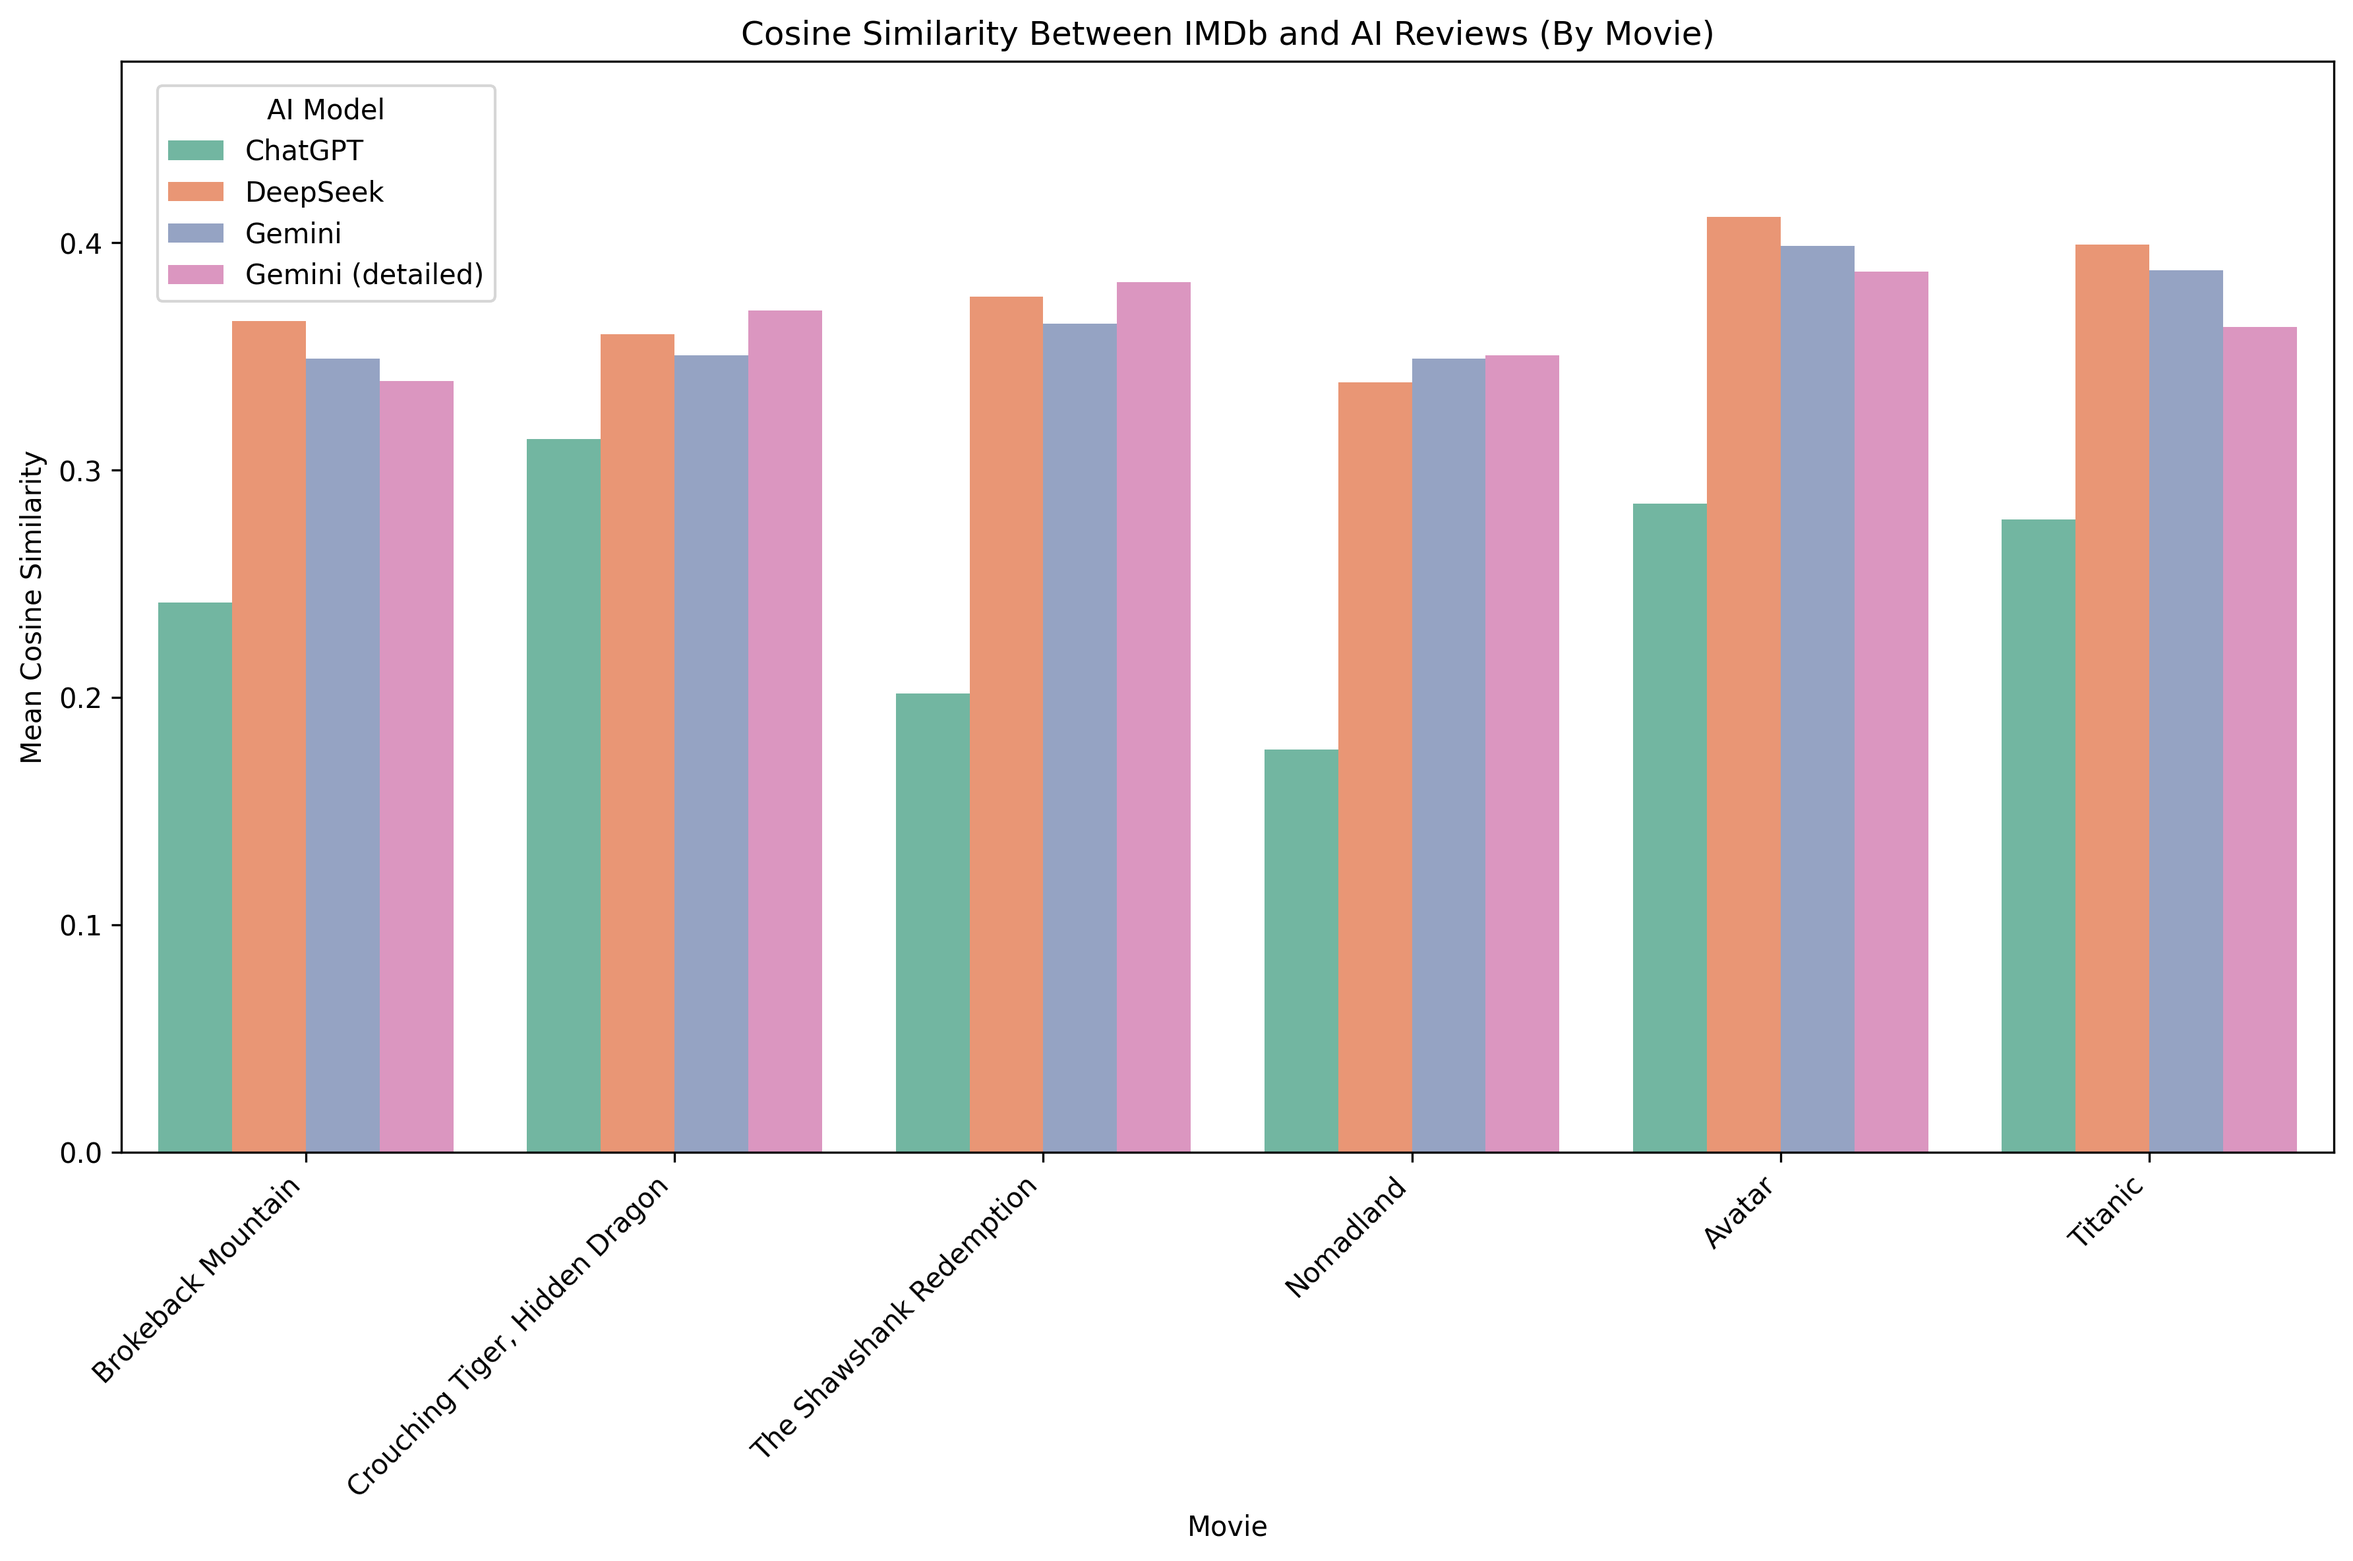
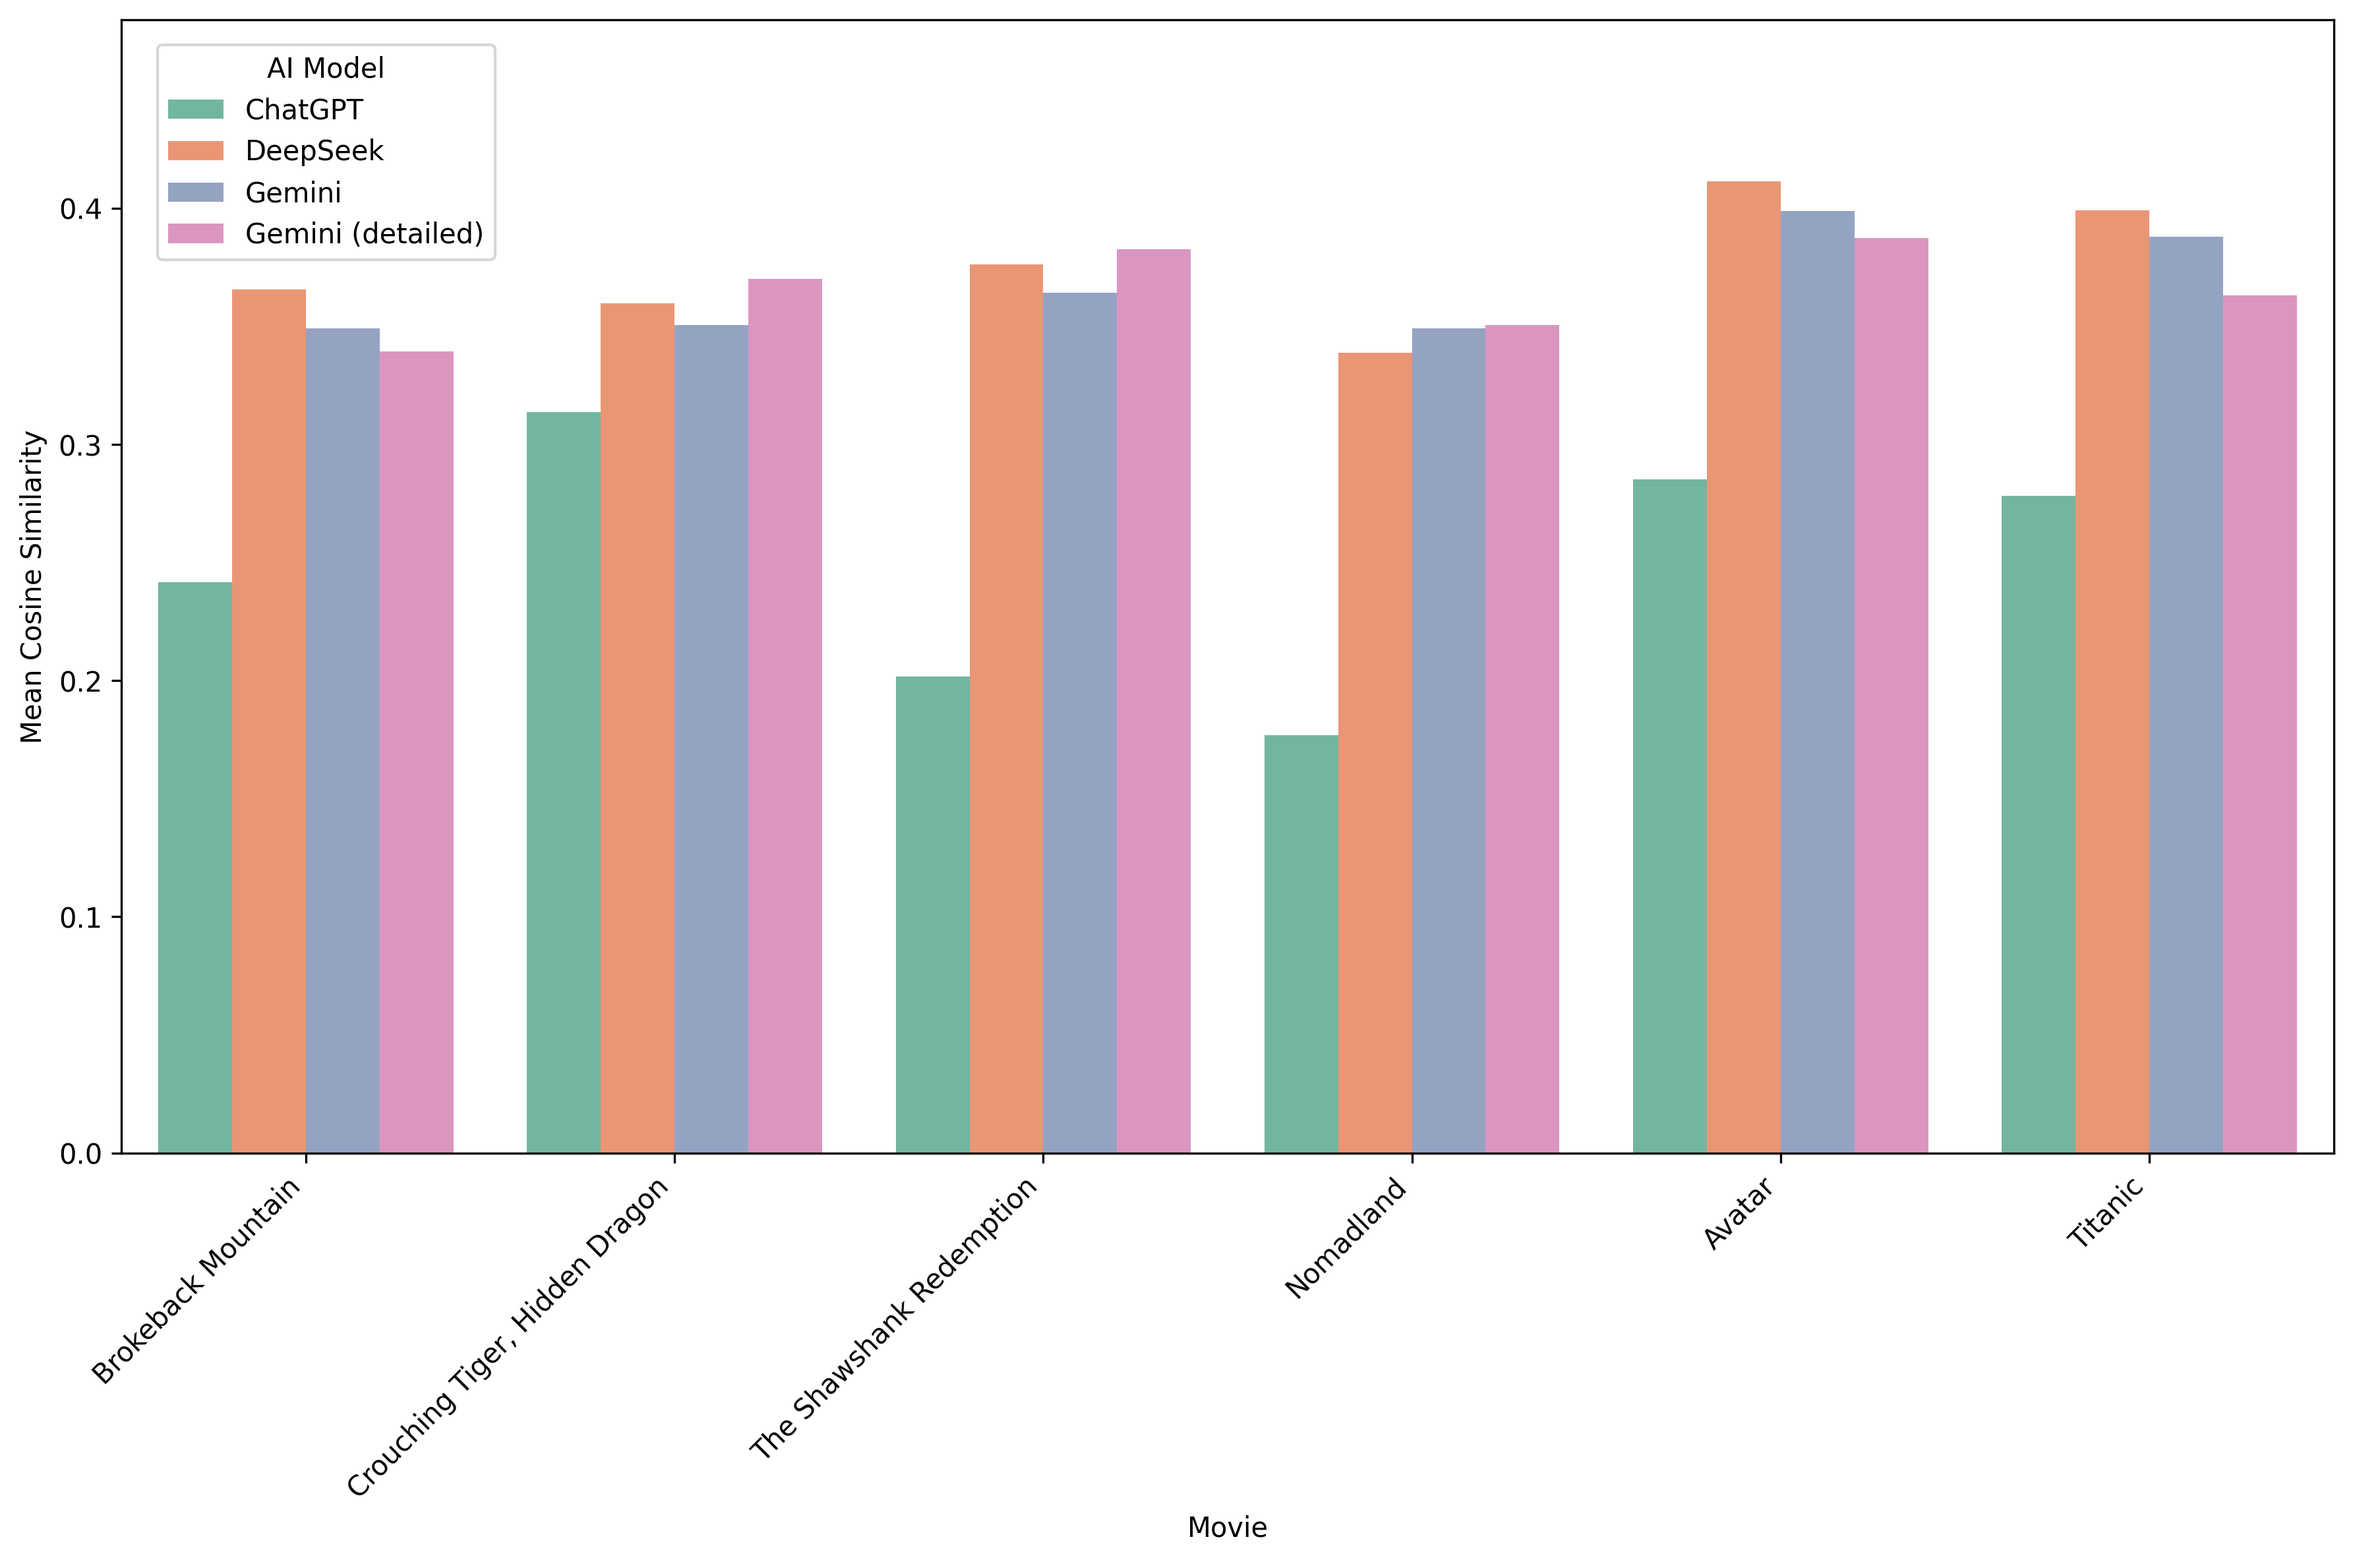
remove fig titles

diff --git a/visualization/cosine_similarity_by_movie_transcript.py b/visualization/cosine_similarity_by_movie_transcript.py
@@ -36,7 +36,7 @@ sns.barplot(data=merged_df, x="movie", y="MeanSimilarity", hue="AI Model",  pale
 plt.xlabel("Movie")
 plt.ylabel("Mean Cosine Similarity")
 plt.ylim(top=0.48)  # add some headroom manually
-plt.title("Cosine Similarity Between IMDb and AI Reviews (By Movie)")
+# plt.title("Cosine Similarity Between IMDb and AI Reviews (By Movie)")
 plt.xticks(rotation=45,ha='right')
 # plt.legend(title="AI Model",fontsize=8)
 plt.legend(title="AI Model", loc='upper left', bbox_to_anchor=(0.01, 0.99))

diff --git a/visualization/cosine_similarity_by_movie_subtitles.py b/visualization/cosine_similarity_by_movie_subtitles.py
@@ -35,7 +35,7 @@ sns.barplot(data=merged_df, x="movie", y="MeanSimilarity", hue="AI Model",  pale
 # Labels and title
 plt.xlabel("Movie")
 plt.ylabel("Mean Cosine Similarity")
-plt.title("Cosine Similarity Between IMDb and AI Reviews (By Movie)")
+# plt.title("Cosine Similarity Between IMDb and AI Reviews (By Movie)")
 plt.xticks(rotation=45,ha='right')
 plt.legend(title="AI Model",loc='upper left', fontsize=8)
 
